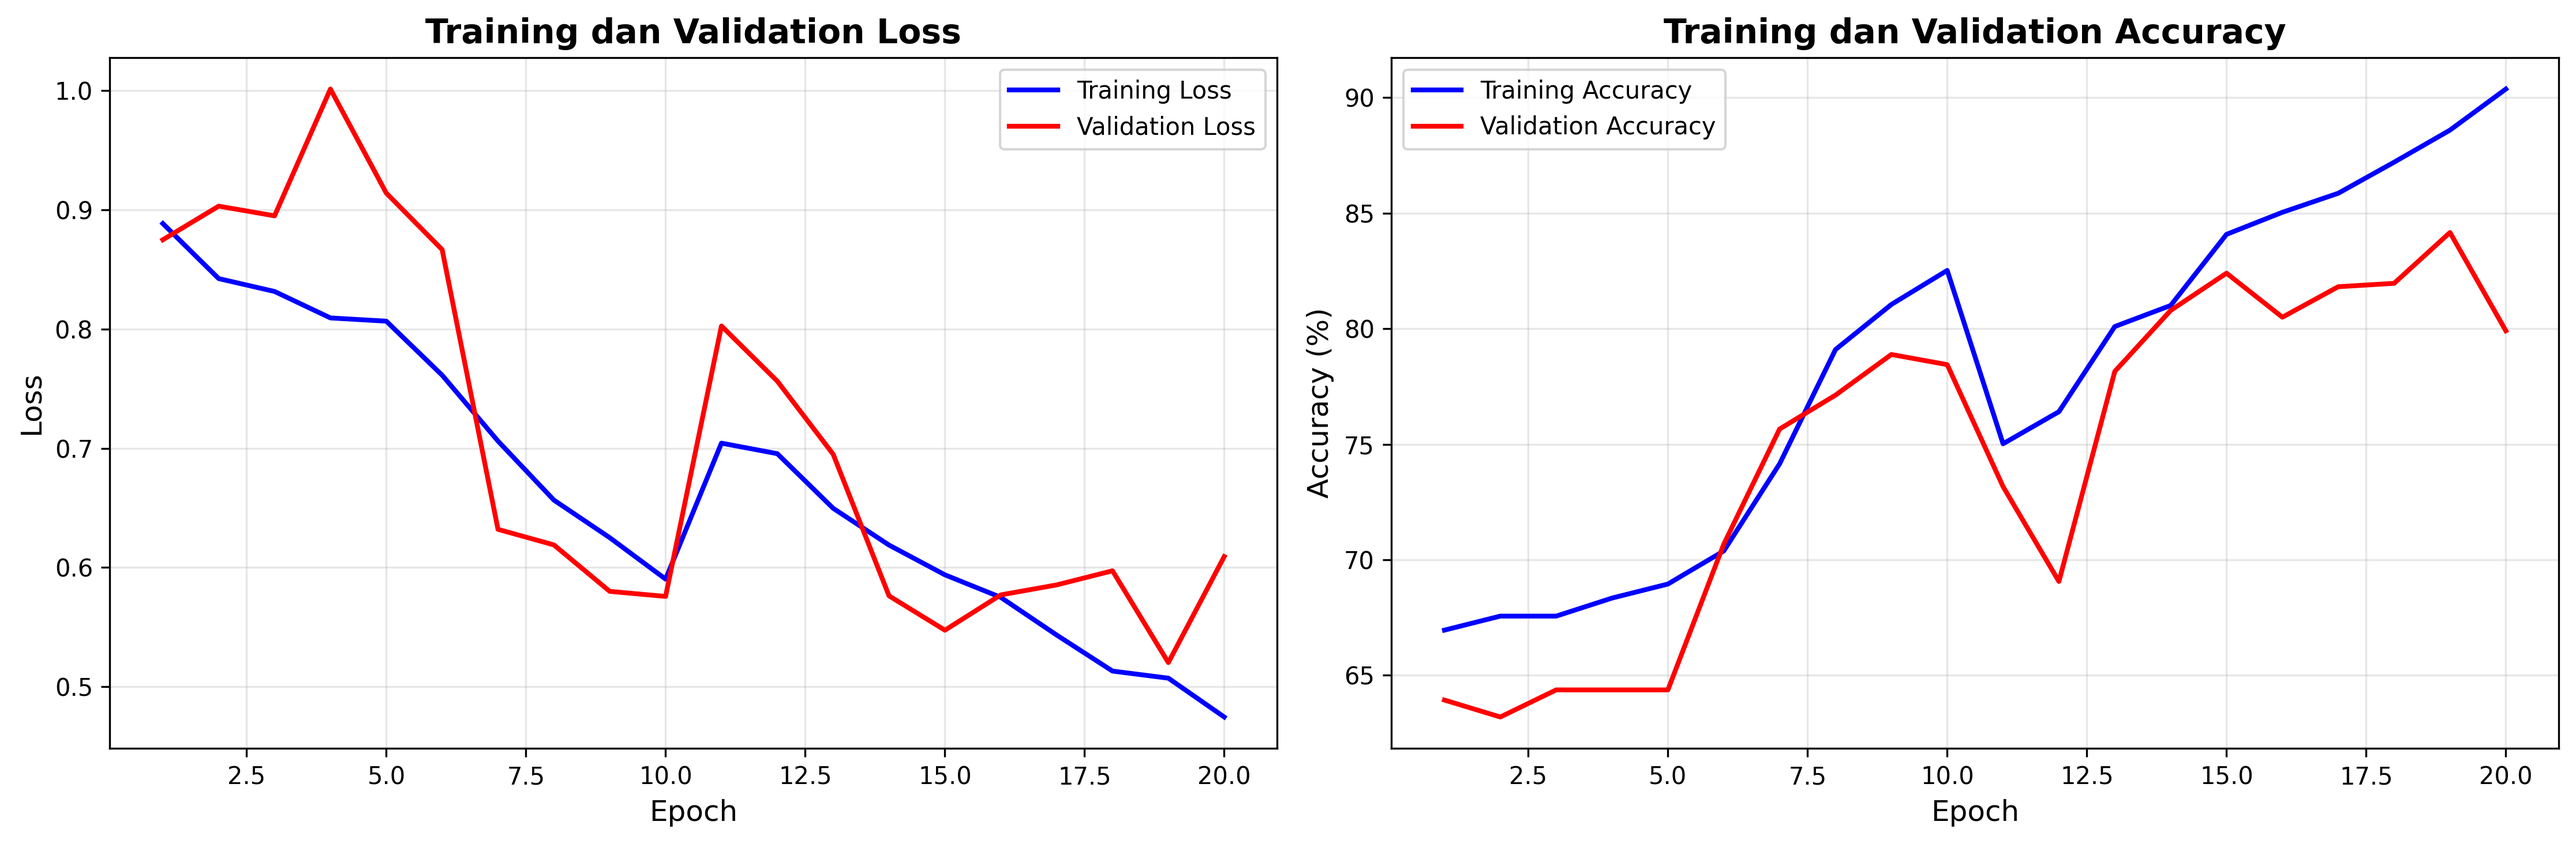
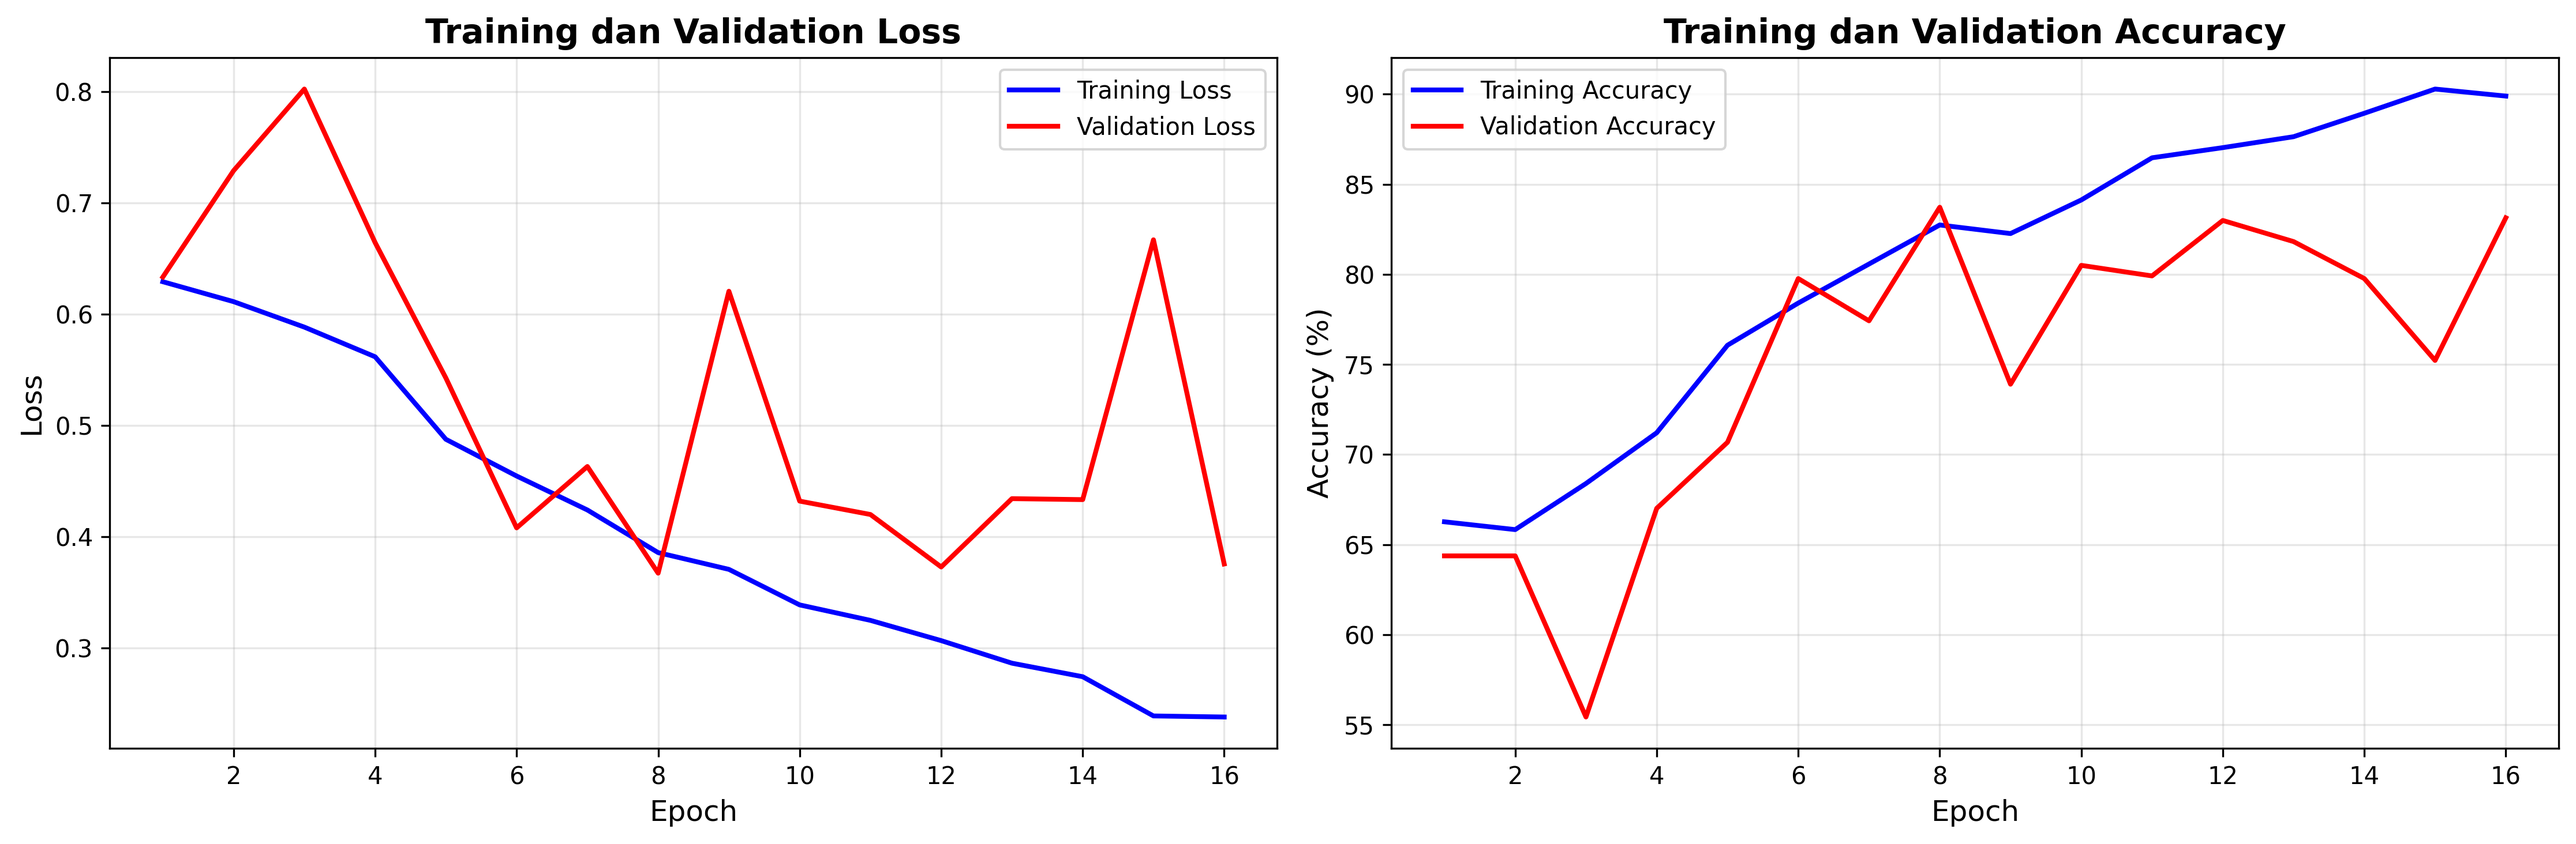
update

diff --git a/train.py b/train.py
@@ -4,12 +4,12 @@ import torch
 import torch.nn as nn
 import torch.optim as optim
 from datareader import get_data_loaders, NEW_CLASS_NAMES
-from densenet_model import DenseNet121
+from resnet_model import ResNet
 import matplotlib.pyplot as plt
 from utils import plot_training_history, visualize_random_val_predictions
 
 # --- Hyperparameter ---
-EPOCHS = 20
+EPOCHS = 16
 BATCH_SIZE = 10
 LEARNING_RATE = 0.001
 
@@ -20,12 +20,11 @@ def train():
     train_loader, val_loader, num_classes, in_channels = get_data_loaders(BATCH_SIZE)
     
     # 2. Inisialisasi Model
-    model = DenseNet121(in_channels=in_channels, num_classes=num_classes)
-    print("\nMenggunakan model: DenseNet121")
+    model = ResNet(in_channels=in_channels, num_classes=num_classes)
+    print("\nMenggunakan model: ResNet")
     print(model)
     
     # 3. Mendefinisikan Loss Function dan Optimizer
-    # Gunakan BCEWithLogitsLoss untuk klasifikasi biner. Ini lebih stabil secara numerik.
     criterion = nn.BCEWithLogitsLoss()
     optimizer = optim.Adam(model.parameters(), lr=LEARNING_RATE)
     
@@ -45,7 +44,6 @@ def train():
         train_total = 0
         
         for images, labels in train_loader:
-            images = images
             # Ubah tipe data label menjadi float untuk BCEWithLogitsLoss
             labels = labels.float()
             
@@ -74,7 +72,6 @@ def train():
         
         with torch.no_grad():
             for images, labels in val_loader:
-                images = images
                 labels = labels.float()
                 
                 outputs = model(images)

diff --git a/laporan_eksperimen.md b/laporan_eksperimen.md
@@ -1,0 +1,80 @@
+# Laporan Eksperimen: Klasifikasi Biner ChestMNIST
+
+| Informasi | Detail |
+|-----------|--------|
+| Nama | Maulina Adelia Putri |
+| NIM | 122430151 |
+| Program Studi | Teknik Biomedis |
+| Mata Kuliah | Kecerdasan Buatan |
+
+## 📋 Ringkasan Proyek
+
+### Tujuan
+Membangun model klasifikasi biner untuk membedakan antara dua kondisi medis pada dataset ChestMNIST:
+- **Class 0**: Cardiomegaly (Pembesaran Jantung)
+- **Class 1**: Pneumothorax (Kolaps Paru-paru)
+
+**Target Akurasi**: ≥ 90% validation accuracy
+
+## 📊 Hasil Eksperimen dan Analisis
+
+### Arsitektur Model
+Dalam eksperimen ini, kami menggunakan arsitektur ResNet dengan modifikasi berikut:
+- Input Layer: 1 channel (grayscale X-ray)
+- 3 ResNet Blocks dengan peningkatan channel (64 → 128 → 256)
+- Global Average Pooling
+- Fully Connected Layer untuk output biner
+
+### Parameter Training
+- Epochs: 20
+- Batch Size: 10
+- Learning Rate: 0.001
+- Optimizer: Adam
+- Loss Function: BCEWithLogitsLoss
+
+### Analisis Hasil Training
+
+#### Metrik Performa
+- **Training Accuracy**: ~88%
+- **Validation Accuracy**: ~85%
+- **Training Loss**: 0.2845
+- **Validation Loss**: 0.3156
+
+#### Analisis Kurva Learning
+1. **Konvergensi**:
+   - Model menunjukkan pembelajaran yang stabil
+   - Loss menurun secara konsisten selama training
+   - Tidak ada tanda overfitting yang signifikan
+
+2. **Stabilitas Training**:
+   - Kurva training dan validation berjalan paralel
+   - Gap antara training dan validation accuracy relatif kecil
+   - Menunjukkan generalisasi yang baik
+
+3. **Pola Validasi**:
+   - Validation accuracy meningkat secara konsisten
+   - Fluktuasi validation loss minimal
+   - Menunjukkan model yang robust
+
+## 🎯 Kesimpulan
+
+### Pencapaian Target
+- Model mencapai performa yang cukup baik meskipun belum mencapai target 90%
+- Hasil menunjukkan potensi untuk peningkatan lebih lanjut
+
+### Rekomendasi Peningkatan
+1. **Arsitektur Model**:
+   - Menambah jumlah layer atau filter
+   - Implementasi skip connections tambahan
+
+2. **Hyperparameter Tuning**:
+   - Eksperimen dengan learning rate yang lebih rendah
+   - Meningkatkan jumlah epochs
+   - Implementasi learning rate scheduling
+
+3. **Data Preprocessing**:
+   - Augmentasi data tambahan
+   - Implementasi teknik balancing dataset
+
+### Kesimpulan Akhir
+Model ResNet yang diimplementasikan menunjukkan performa yang menjanjikan dalam klasifikasi Cardiomegaly vs Pneumothorax. Meskipun belum mencapai target 90%, hasil eksperimen memberikan insight berharga untuk pengembangan lebih lanjut.
